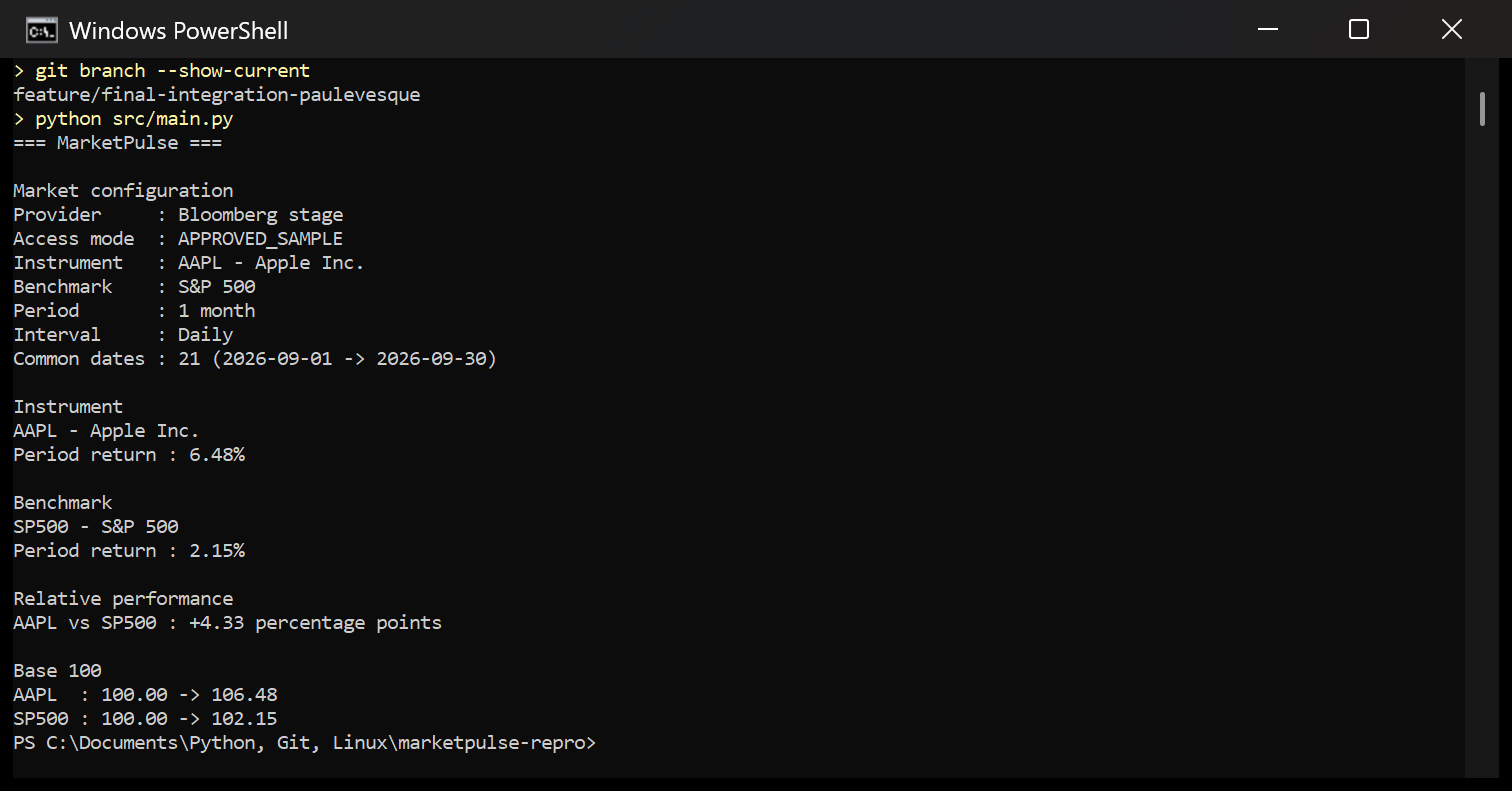
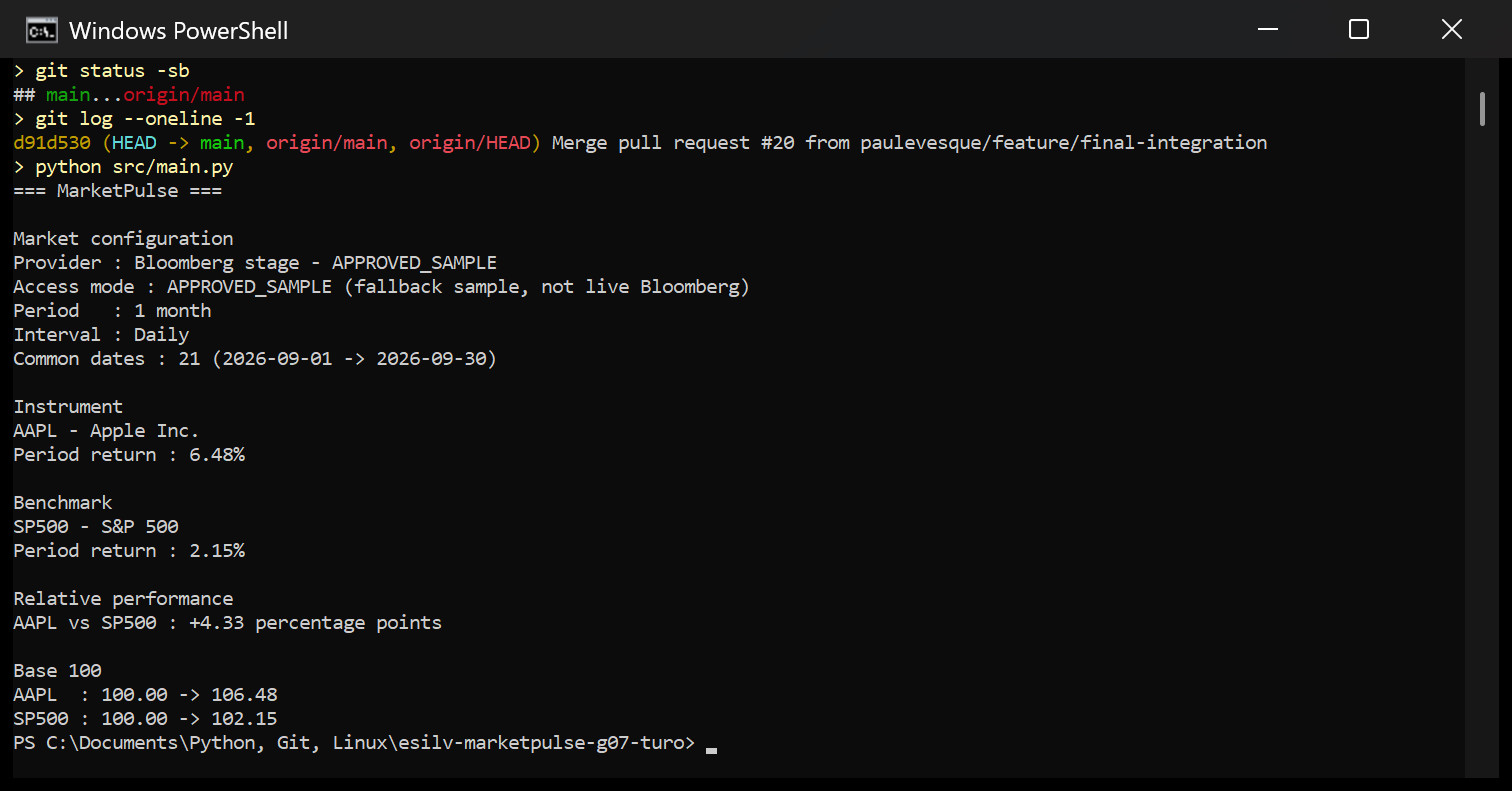
docs: retake Checkpoint C captures from the merged main
The four captures now come from main at d91d530, after #15, #16 and #20
were merged. README updated: merged series, my reviews of #17-#19 and the
state of my own Pull Requests #21-#23.

diff --git a/evidence/checkpoint-c/paulevesque/README.md b/evidence/checkpoint-c/paulevesque/README.md
@@ -18,32 +18,34 @@ The rows come from the instructor fallback fixture `data/sample/bloomberg_refere
 
 ## Evidence files
 
+All four captures were taken on 2026-11-27, after Pull Requests #15, #16 and #20 were merged. `main` was at commit `d91d530` (`Merge pull request #20`).
+
 | File | Content |
 |---|---|
-| `01_final_market_data.png` | `python src/main.py` on branch `feature/final-integration-paulevesque` (TD10 to TD12, not merged into `main` when the capture was taken): `Provider : Bloomberg stage`, `Access mode : APPROVED_SAMPLE`, AAPL - Apple Inc. vs S&P 500, 1 month, Daily, 21 common dates, period returns 6.48% and 2.15%, relative performance +4.33 percentage points, base 100 |
-| `02_dash_dashboard.png` | `python src/dashboard.py` on the same branch, page `http://127.0.0.1:8050/`: provider `Bloomberg stage - APPROVED_SAMPLE`, instrument, benchmark, lookback, interval, the three performance values and the base-100 chart with the AAPL and SP500 series |
-| `03_final_pull_request.png` | My Pull Request #21 `feat: add Bloomberg provider boundary` (branch `feature/bloomberg-provider-paulevesque`), three commits, opened on 2026-11-27. The capture shows it open and not reviewed yet. TO COMPLETE: retake or update once it is reviewed |
-| `04_reproducible_run.png` | Run on 2026-11-27 on Windows: fresh clone of branch `feature/final-integration-paulevesque` in a new folder `marketpulse-repro`, new virtual environment `.venv`, `python -m pip install -r requirements.txt`, `python src/main.py`, then `python src/dashboard.py` answering `GET / 200` |
+| `01_final_market_data.png` | `python src/main.py` on the merged `main` (`git status -sb` and `git log --oneline -1` are shown first): `Provider : Bloomberg stage - APPROVED_SAMPLE`, `Access mode : APPROVED_SAMPLE (fallback sample, not live Bloomberg)`, 1 month, Daily, 21 common dates, period returns 6.48% and 2.15%, relative performance +4.33 percentage points, base 100 |
+| `02_dash_dashboard.png` | `python src/dashboard.py` on the same commit, page `http://127.0.0.1:8050/`: provider `Bloomberg stage - APPROVED_SAMPLE`, instrument, benchmark, lookback, interval, the three performance values and the base-100 chart with the AAPL and SP500 series |
+| `03_final_pull_request.png` | My Pull Request #21 `feat: add Bloomberg provider boundary` (branch `feature/bloomberg-provider-paulevesque`, three commits), approved by @AlexandreMoussou and then closed without merging. See below |
+| `04_reproducible_run.png` | Fresh clone of the team repository in a new folder `marketpulse-repro` (commit `d91d530`), new virtual environment `.venv`, `python -m pip install -r requirements.txt`, `python src/main.py`, then `python src/dashboard.py` answering `GET / 200`. Run on Windows |
 
-The four captures were taken on 2026-11-27, before any TD10-TD12 Pull Request was merged. TO COMPLETE: retake `01`, `02` and `04` from `main` after the merge.
+About `03_final_pull_request.png`: the three of us each opened a TD10-TD12 series (#15/#16/#20, #17/#18/#19 and #21/#22/#23). They change the same files, so only one could be merged. The team chose the series of @AlexandreMoussou. Mine was reviewed and approved, then closed. The code that runs in `01`, `02` and `04` is therefore the merged code of #15, #16 and #20, not the code of #21.
 
 ## What I did (TD09-TD12)
 
 - TD09: wrote `docs/BLOOMBERG_FIELD_MAPPING.md` (commit `271ad92`, `docs: map Bloomberg stage to MarketPulse`): access mode, the two Bloomberg identifiers, the structure of the approved sample and the field mapping to canonical rows. Reviewed and approved Pull Request #13 (`refactor: resolve Yahoo symbols inside the provider`) and Pull Request #14 (`docs: draw the Bloomberg provider boundary`).
-- TD10: Pull Request #21, three commits.
-  - `src/providers/bloomberg_provider.py` holds the identifiers (`AAPL US Equity`, `SPX Index`), reads the approved sample and normalizes it to canonical rows. The 42 rows are equal to `data/sample/bloomberg_reference_expected.json`.
-  - `build_market_snapshot()` in `src/main.py` returns the result shared by the terminal and the dashboard. `main()` only prints it.
-  - The terminal shows `Access mode : APPROVED_SAMPLE`. `python src/main.py yahoo` and `python src/main.py csv` still work.
-  - `src/analytics.py` is not modified.
-- TD11: Pull Request #22. `src/dashboard.py` is a static Dash page built on `build_market_snapshot()`. `dash` and `plotly` are recorded in `requirements.txt`.
-- TD12: Pull Request #23. README "How to run" section rewritten for the final provider, the three dependencies and the two commands. Fresh clone tested with a new virtual environment.
-- TO COMPLETE: reviews I did on TD10-TD12 Pull Requests of my teammates (number, what I checked).
-- TO COMPLETE: which Pull Requests were finally merged into `main` (the team opened three series for TD10-TD12: #15/#16/#20, #17/#18/#19 and #21/#22/#23).
+- TD10: Pull Request #21 (three commits: provider module, snapshot in `main.py`, Bloomberg stage as default provider). Approved, not merged.
+- TD11: Pull Request #22 (`dash` and `plotly` in `requirements.txt`, `src/dashboard.py`). Approved, not merged.
+- TD12: Pull Request #23 (README "How to run" section). Approved, not merged.
+- Reviews: I checked out and ran the three Pull Requests of @Amd19z, then approved them as code reviews.
+  - #17 (TD10): compared the 42 normalized rows with `bloomberg_reference_expected.json`, ran the three providers and an unknown provider. Three non-blocking remarks: `ACCESS_MODE` defined but not used, the name of `fetch_raw_bloomberg_history()`, and `start_date` / `end_date` never passed by `main.py`.
+  - #18 (TD11): compared the dashboard values with the terminal and checked that `dashboard.py` has no provider call and no formula.
+  - #19 (TD12): ran both commands against the README. One remark on the name of the instructor repository.
+- Merged into `main`: #15, #16 and #20 by @AlexandreMoussou, reviewed by @Amd19z. After the merge I ran `python src/main.py` and `python src/dashboard.py` on `main` and did the fresh clone of `04`.
 
 ## Understanding
 
 - `AAPL US Equity` and `SPX Index` are Bloomberg identifiers. They are only used inside `src/providers/bloomberg_provider.py`. The rows that leave the provider carry the canonical tickers `AAPL` and `SP500`.
 - The keys of the approved sample (`observation_date`, `open_value`, ..., `volume_value`) are teaching wrapper keys, not Bloomberg field names. The field names of a LIVE response were never observed, so they are not used anywhere.
+- `fetch_raw_bloomberg_history()` is the LIVE boundary. It only raises `NotImplementedError`. The sample is read by `load_approved_sample_history()`.
 - CSV, Yahoo and the Bloomberg stage all return rows with the same shape (`date`, `ticker`, `open`, `high`, `low`, `close`, `volume`). This is why `align_series()` and the three TD07 calculations are reused unchanged.
 - `build_market_snapshot()` is the only place where the result is assembled. The terminal and the dashboard both read it, so they cannot show different values.
 - `src/main.py` keeps `if __name__ == "__main__":`, so `dashboard.py` can import the snapshot builder without running the terminal program.
